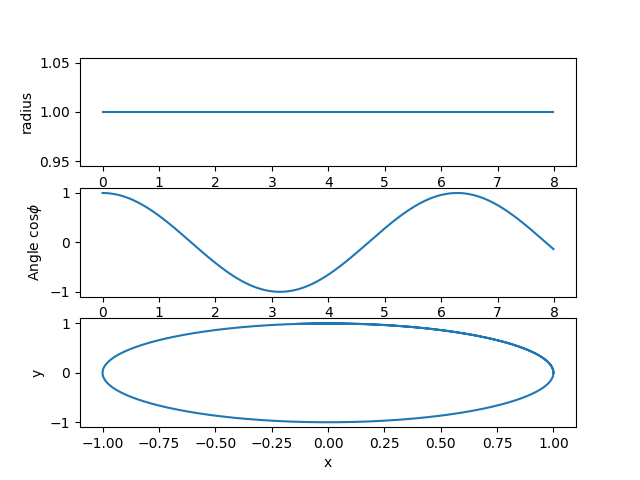
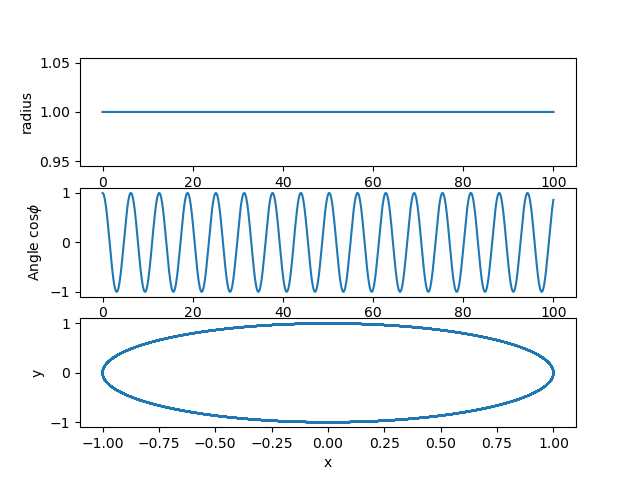
added files

diff --git a/doc/src/gravity/Programs/TwodimSolver.py b/doc/src/gravity/Programs/TwodimSolver.py
@@ -36,37 +36,33 @@ n = ceil(tfinal/DeltaT)
 t = np.zeros(n)
 v = np.zeros((n,2))
 r = np.zeros((n,2))
-radius = np.zeros(n)
 # Constants of the model
-k = 0.1   # spring constant
-m = 0.1   # mass, you can change these
-omega02 = sqrt(k/m)  # Frequency
-AngMom = 1.0  #  The angular momentum
-rmin = (AngMom*AngMom/k/m)**0.25
+m = 1.0   # mass, you can change these
+alpha = 1.0
 # Initial conditions as compact 2-dimensional arrays
-#x0 =rmin*0.5; y0 = sqrt(rmin*rmin-x0*x0)
-x0 = 1.0; y0= 1.0
+x0 = 0.1; y0= 0.1
 r0 = np.array([x0,y0]) 
-v0 = np.array([0.0,0.0])
+v0 = np.array([0.0,0.5])
 r[0] = r0
 v[0] = v0
 # Start integrating using the Velocity-Verlet  method
 for i in range(n-1):
     # Set up the acceleration
-    a =  -r[i]*omega02  
+    rabs = sqrt(sum(r[i]*r[i]))
+    a =  -alpha*r[i]/(rabs**3)
     # update velocity, time and position using the Velocity-Verlet method
     r[i+1] = r[i] + DeltaT*v[i]+0.5*(DeltaT**2)*a
-    anew = -r[i+1]*omega02  
+    rabs = sqrt(sum(r[i+1]*r[i+1]))
+    anew = -alpha*r[i+1]/(rabs**3)
     v[i+1] = v[i] + 0.5*DeltaT*(a+anew)
     t[i+1] = t[i] + DeltaT
 # Plot position as function of time
-radius = np.sqrt(r[:,0]**2+r[:,1]**2)
 fig, ax = plt.subplots(3,1)
 ax[0].set_xlabel('time')
-ax[0].set_ylabel('radius squared')
-ax[0].plot(t,r[:,0]**2+r[:,1]**2)
+ax[0].set_ylabel('x')
+ax[0].plot(r[:,0],r[:,1])
 ax[1].set_xlabel('time')
-ax[1].set_ylabel('x position')
+ax[1].set_ylabel('y position')
 ax[1].plot(t,r[:,0])
 ax[2].set_xlabel('time')
 ax[2].set_ylabel('y position')

diff --git a/doc/src/gravity/Programs/rphyplot.py b/doc/src/gravity/Programs/rphyplot.py
@@ -31,9 +31,9 @@ def save_fig(fig_id):
 
 # Simple Gravitational Force   -alpha/r
     
-DeltaT = 0.01
+DeltaT = 0.001
 #set up arrays 
-tfinal = 8.0
+tfinal = 100.0
 n = ceil(tfinal/DeltaT)
 # set up arrays for t, v and r
 t = np.zeros(n)
